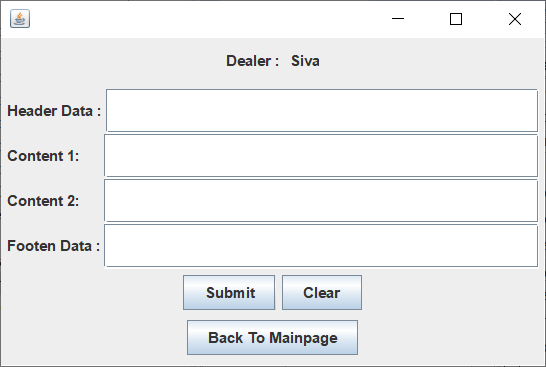
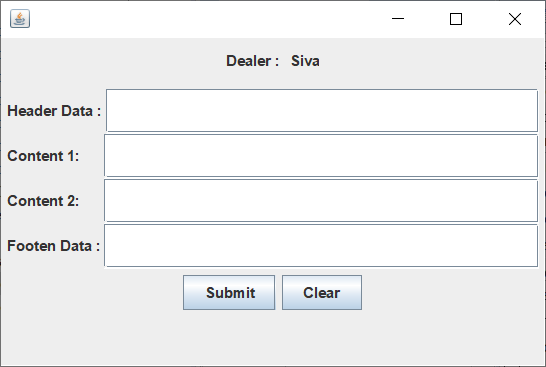
uodate

Changed region(s): [[0.3425, 0.8992, 0.6538, 0.9891], [0.3425, 0.8692, 0.3736, 0.8992]]

diff --git a/Final/src/ContentPage.java b/Final/src/ContentPage.java
@@ -108,12 +108,6 @@ public class ContentPage extends JFrame {
 		
 		JButton btnClear = new JButton("Clear");
 		panel_6.add(btnClear);
-		
-		JPanel panel_3 = new JPanel();
-		contentPane.add(panel_3);
-		
-		JButton btnBackToMainpage = new JButton("Back To Mainpage");
-		panel_3.add(btnBackToMainpage);
 	}
 
 }
